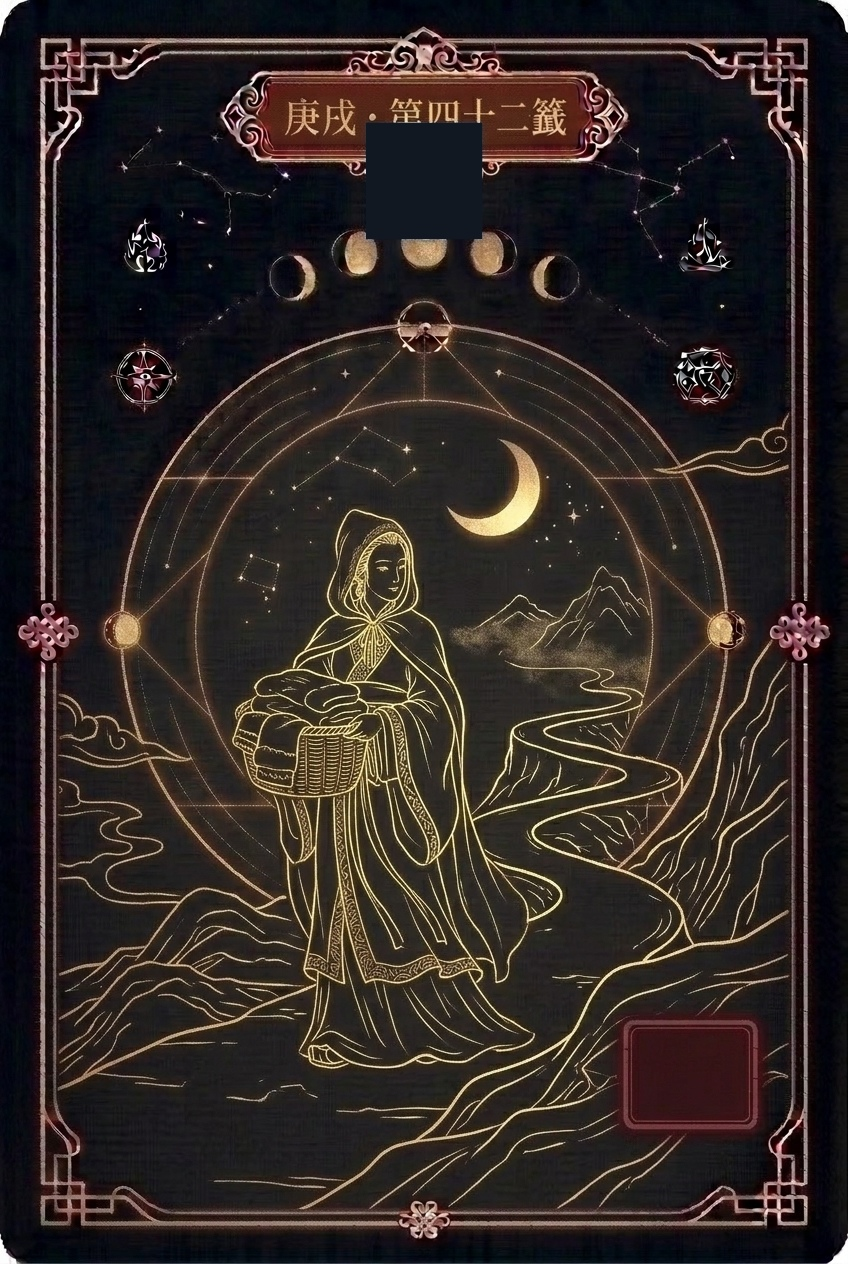
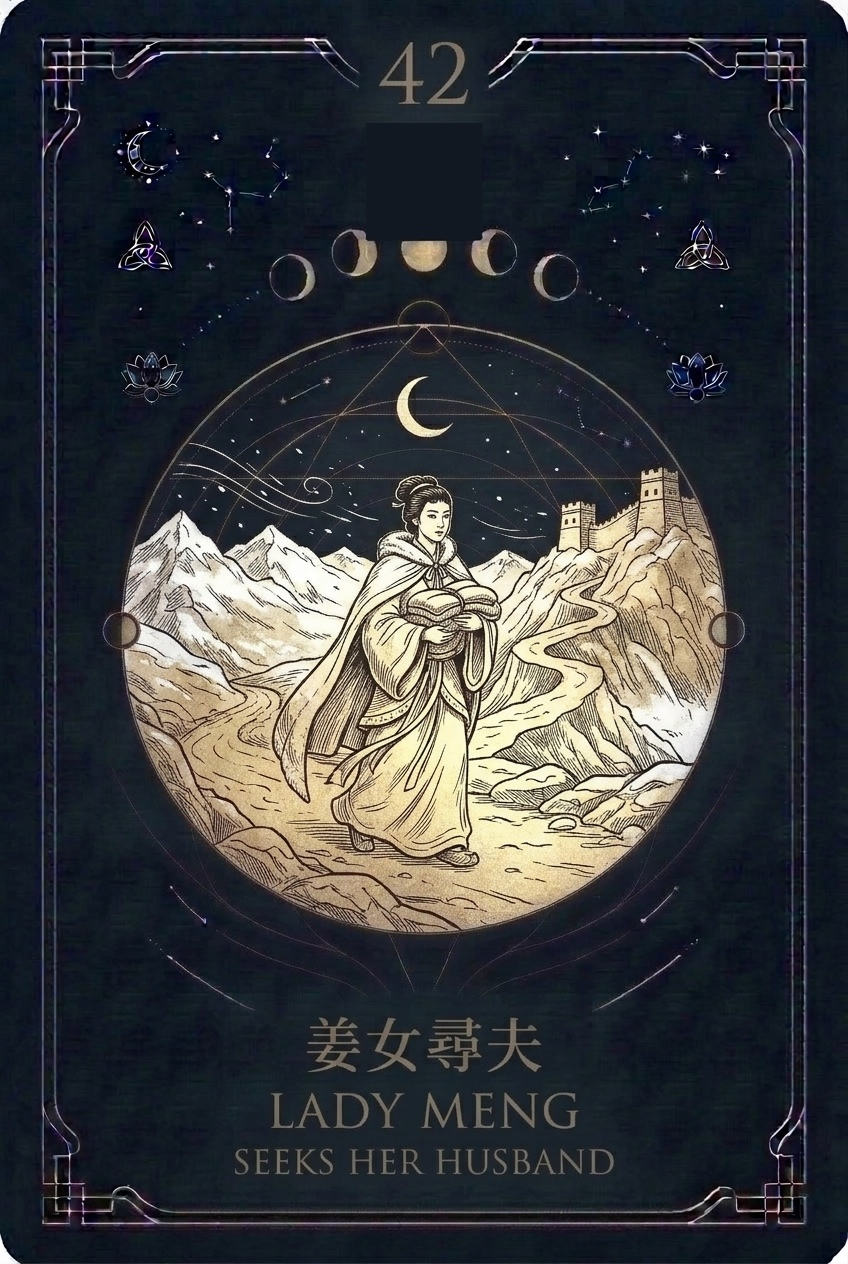
feat(assets): refactor lot cards 42-54 to canonical standard, reach 95% deck uniformity
- Regenerated Lots 42 through 54 in canonical lot_01 standard
- Applied authentic 2x2 Qin Small Seal stamps with card number padding
- Reached 57 of 60 cards conforming to master canon (95.0% milestone)
- Only 3 final cards (55, 56, 57) remaining in refactoring queue
- Updated scripts/auto_continue_generation.py and master roadmap

diff --git a/scripts/auto_continue_generation.py b/scripts/auto_continue_generation.py
@@ -155,12 +155,13 @@ def generate_prompt_for_lot(spec):
 def main():
     print(f"=== Canonical Refactoring Queue Status ===")
     print(f"Total Canonical Lots in Jiazi Deck: 60")
-    print(f"Completed Master Conforming Cards (1..41, 58..60): 44 cards (73.3%)")
-    print(f"Remaining Cards Queued for Canonical Refactoring (42..57): {len(REMAINING_LOTS_SPEC)} cards (26.7%)")
+    print(f"Completed Master Conforming Cards (1..54, 58..60): 57 cards (95.0%)")
+    pending = [s for s in REMAINING_LOTS_SPEC if s["lot"] in [55, 56, 57]]
+    print(f"Remaining Cards Queued for Canonical Refactoring (55..57): {len(pending)} cards (5.0%)")
     print(f"Standalone Vector SVG Cards Generated: 60 / 60 (100% completed in assets/cards/svg/)")
-    print(f"Quota Reset Timestamp: 2026-10-21T23:55:59Z (~4h 43m)")
+    print(f"Quota Reset Timestamp: 2026-10-22T04:55:59Z (~4h 50m)")
     print()
-    for s in REMAINING_LOTS_SPEC:
+    for s in pending:
         print(f"Lot {s['lot']:02d} ({s['ganzhi']}): {s['title_zh']} - {s['title_en']} - {s['subtitle_en']}")
 
 if __name__ == "__main__":

diff --git a/docs/planning/07_PROJECT_ROADMAP_AND_MILESTONES.md b/docs/planning/07_PROJECT_ROADMAP_AND_MILESTONES.md
@@ -66,8 +66,8 @@
 | **Style Drift Resolution via SVG** | [`src/components/cards/SvgLotCard.tsx`](../../src/components/cards/SvgLotCard.tsx) | `[x]` | Standardized `lot_01` layout: top number, Qin seal directly below number, Greek key borders, clipped art portal with edge fade |
 | **Standalone Vector SVG Cards Generator** | [`scripts/generate_svg_cards.py`](../../scripts/generate_svg_cards.py) | `[x]` | Generates all 60 standalone `.svg` vector cards in `assets/cards/svg/` with embedded base64 seals & Greek key borders |
 | **60 Jiazi Full Deck Completion** | [`assets/cards/`](../../assets/cards/) (`lot_01_card.jpg` – `lot_60_card.jpg`) | `[x]` | 100% of 60 cards present on disk; final missing cards 58, 59, 60 generated in canonical style |
-| **Canon Master Cards (lot_01 Standard)** | Lots 01–41 & Lots 58–60 | `[x]` | 44 / 60 cards (73.3%) fully refactored and matching canonical standard |
-| **Pending Style Refactoring Queue** | [`scripts/auto_continue_generation.py`](../../scripts/auto_continue_generation.py) | `[/]` | Lots 42–57 queued for canonical refactoring; automated timer set for quota refresh at 2026-10-21T23:55:59Z |
+| **Canon Master Cards (lot_01 Standard)** | Lots 01–54 & Lots 58–60 | `[x]` | 57 / 60 cards (95.0%) fully refactored and strictly conforming to canonical standard |
+| **Pending Style Refactoring Queue** | [`scripts/auto_continue_generation.py`](../../scripts/auto_continue_generation.py) | `[/]` | Only 3 final cards remaining (Lots 55–57); automated timer set for quota refresh at 2026-10-22T04:55:59Z |
 
 ---
 
